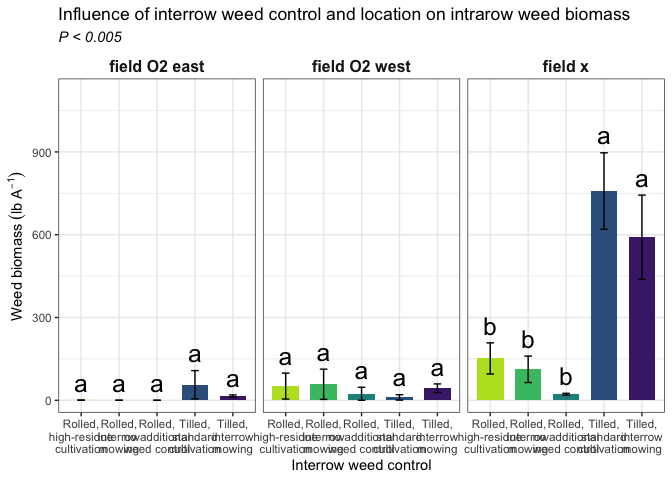
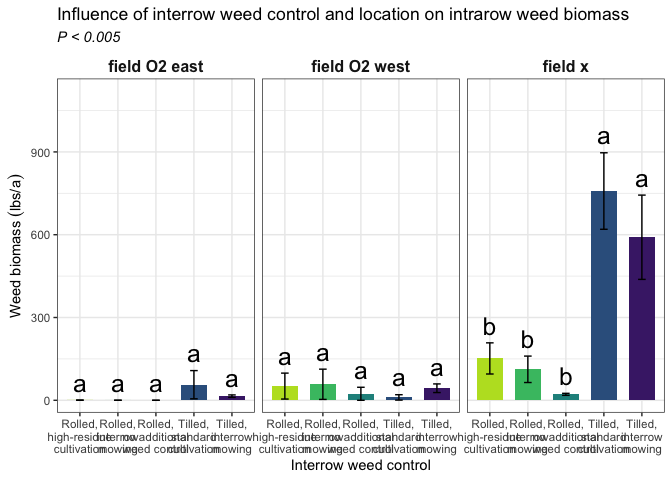
cool

diff --git a/rmarkdowns/intrarow_weed_biomass.md b/rmarkdowns/intrarow_weed_biomass.md
@@ -51,14 +51,14 @@ combined_raw <- read_excel("~/Github/Mowtivation/raw-data/All Treatments/combine
 kable(head(combined_raw))
 ```
 
-| id | location | year | treatment | block | plot | bean_emergence | bean_biomass | intrarow_weed_biomass | interrow_weed_biomass | weed_biomass | bean_population | bean_yield |
-|:---|:---|---:|:---|---:|---:|---:|---:|---:|---:|---:|:---|:---|
-| CU_B1_P101 | field x | 2023 | TIM | 1 | 101 | 46.5 | 223.740 | 19.000 | 44.490 | 63.490 | 34.5 | 417.21 |
-| CU_B1_P102 | field x | 2023 | TIC | 1 | 102 | 42.5 | 267.460 | 30.975 | 0.720 | 31.695 | 39.5 | 565.54 |
-| CU_B1_P103 | field x | 2023 | RIM | 1 | 103 | 36.5 | 217.890 | 0.950 | 6.890 | 3.920 | 37.5 | 449.93 |
-| CU_B1_P104 | field x | 2023 | RNO | 1 | 104 | 41.0 | 207.675 | 0.660 | 45.735 | 46.395 | 35 | 412.59 |
-| CU_B1_P105 | field x | 2023 | RIC | 1 | 105 | 41.0 | 230.285 | 0.495 | 22.025 | 22.520 | 39 | 473.79 |
-| CU_B1_P201 | field x | 2023 | RIC | 2 | 201 | 36.5 | 208.105 | 6.395 | 19.460 | 25.855 | 33.5 | 484.04 |
+| id | location | year | treatment | block | plot | bean_emergence | bean_biomass | intrarow_weed_biomass | interrow_weed_biomass | weed_biomass | bean_population | bean_yield | seed_weight |
+|:---|:---|---:|:---|---:|---:|---:|---:|---:|---:|---:|:---|:---|:---|
+| CU_B1_P101 | field x | 2023 | TIM | 1 | 101 | 46.5 | 223.740 | 19.000 | 44.490 | 63.490 | 34.5 | 417.21 | 17.119999999999997 |
+| CU_B1_P102 | field x | 2023 | TIC | 1 | 102 | 42.5 | 267.460 | 30.975 | 0.720 | 31.695 | 39.5 | 565.54 | 17.475000000000001 |
+| CU_B1_P103 | field x | 2023 | RIM | 1 | 103 | 36.5 | 217.890 | 0.950 | 6.890 | 3.920 | 37.5 | 449.93 | 16.752499999999998 |
+| CU_B1_P104 | field x | 2023 | RNO | 1 | 104 | 41.0 | 207.675 | 0.660 | 45.735 | 46.395 | 35 | 412.59 | 16.145 |
+| CU_B1_P105 | field x | 2023 | RIC | 1 | 105 | 41.0 | 230.285 | 0.495 | 22.025 | 22.520 | 39 | 473.79 | 17.047499999999999 |
+| CU_B1_P201 | field x | 2023 | RIC | 2 | 201 | 36.5 | 208.105 | 6.395 | 19.460 | 25.855 | 33.5 | 484.04 | 17.149999999999999 |
 
 ## Clean data
 
@@ -78,14 +78,14 @@ intrarow_weed_biomass_clean <-clean_combined |>
 kable(head(intrarow_weed_biomass_clean)) 
 ```
 
-| id | location | year | weed_control | block | plot | bean_emergence | bean_biomass | intrarow_weed_biomass | interrow_weed_biomass | weed_biomass | bean_population | bean_yield | intrarow_weed_biomass_grams_meter | intrarow_weed_biomass_kg_ha | intrarow_weed_biomass_lbs_ac |
-|:---|:---|:---|:---|:---|:---|---:|---:|---:|---:|---:|:---|:---|---:|---:|---:|
-| CU_B1_P101 | field x | 2023 | TIM | 1 | 101 | 46.5 | 223.740 | 19.000 | 44.490 | 63.490 | 34.5 | 417.21 | 38.00 | 380.0 | 339.028020 |
-| CU_B1_P102 | field x | 2023 | TIC | 1 | 102 | 42.5 | 267.460 | 30.975 | 0.720 | 31.695 | 39.5 | 565.54 | 61.95 | 619.5 | 552.704891 |
-| CU_B1_P103 | field x | 2023 | RIM | 1 | 103 | 36.5 | 217.890 | 0.950 | 6.890 | 3.920 | 37.5 | 449.93 | 1.90 | 19.0 | 16.951401 |
-| CU_B1_P104 | field x | 2023 | RNO | 1 | 104 | 41.0 | 207.675 | 0.660 | 45.735 | 46.395 | 35 | 412.59 | 1.32 | 13.2 | 11.776763 |
-| CU_B1_P105 | field x | 2023 | RIC | 1 | 105 | 41.0 | 230.285 | 0.495 | 22.025 | 22.520 | 39 | 473.79 | 0.99 | 9.9 | 8.832572 |
-| CU_B1_P201 | field x | 2023 | RIC | 2 | 201 | 36.5 | 208.105 | 6.395 | 19.460 | 25.855 | 33.5 | 484.04 | 12.79 | 127.9 | 114.109694 |
+| id | location | year | weed_control | block | plot | bean_emergence | bean_biomass | intrarow_weed_biomass | interrow_weed_biomass | weed_biomass | bean_population | bean_yield | seed_weight | intrarow_weed_biomass_grams_meter | intrarow_weed_biomass_kg_ha | intrarow_weed_biomass_lbs_ac |
+|:---|:---|:---|:---|:---|:---|---:|---:|---:|---:|---:|:---|:---|:---|---:|---:|---:|
+| CU_B1_P101 | field x | 2023 | TIM | 1 | 101 | 46.5 | 223.740 | 19.000 | 44.490 | 63.490 | 34.5 | 417.21 | 17.119999999999997 | 38.00 | 380.0 | 339.028020 |
+| CU_B1_P102 | field x | 2023 | TIC | 1 | 102 | 42.5 | 267.460 | 30.975 | 0.720 | 31.695 | 39.5 | 565.54 | 17.475000000000001 | 61.95 | 619.5 | 552.704891 |
+| CU_B1_P103 | field x | 2023 | RIM | 1 | 103 | 36.5 | 217.890 | 0.950 | 6.890 | 3.920 | 37.5 | 449.93 | 16.752499999999998 | 1.90 | 19.0 | 16.951401 |
+| CU_B1_P104 | field x | 2023 | RNO | 1 | 104 | 41.0 | 207.675 | 0.660 | 45.735 | 46.395 | 35 | 412.59 | 16.145 | 1.32 | 13.2 | 11.776763 |
+| CU_B1_P105 | field x | 2023 | RIC | 1 | 105 | 41.0 | 230.285 | 0.495 | 22.025 | 22.520 | 39 | 473.79 | 17.047499999999999 | 0.99 | 9.9 | 8.832572 |
+| CU_B1_P201 | field x | 2023 | RIC | 2 | 201 | 36.5 | 208.105 | 6.395 | 19.460 | 25.855 | 33.5 | 484.04 | 17.149999999999999 | 12.79 | 127.9 | 114.109694 |
 
 # Model testing
 
@@ -285,7 +285,7 @@ intrarow_weed_biomass_clean |>
   stat_summary(geom="text", fun = "MeanPlusSe", aes(label= trimws(.group)),size=6.5,vjust=-0.5) +
   labs(
     x = "Interrow weed control",
-    y = expression("Weed biomass" ~ (lb ~ A^{-1})),
+    y = expression("Weed biomass" ~ (lbs * "/" * a)),
     title = str_c("Influence of interrow weed control on intrarow weed biomass"),
     subtitle = expression(italic("P < 0.005"))) +
   
@@ -322,7 +322,7 @@ intrarow_weed_biomass_clean |>
   stat_summary(geom="text", fun = "MeanPlusSe", aes(label= trimws(.group)),size=6.5,vjust=-0.5) +
   labs(
     x = "Interrow weed control",
-    y = expression("Weed biomass" ~ (lb ~ A^{-1})),
+    y = expression("Weed biomass" ~ (lbs * "/" * a)),
     title = str_c("Influence of interrow weed control and location on intrarow weed biomass"),
     subtitle = expression(italic("P < 0.005"))) +
   
